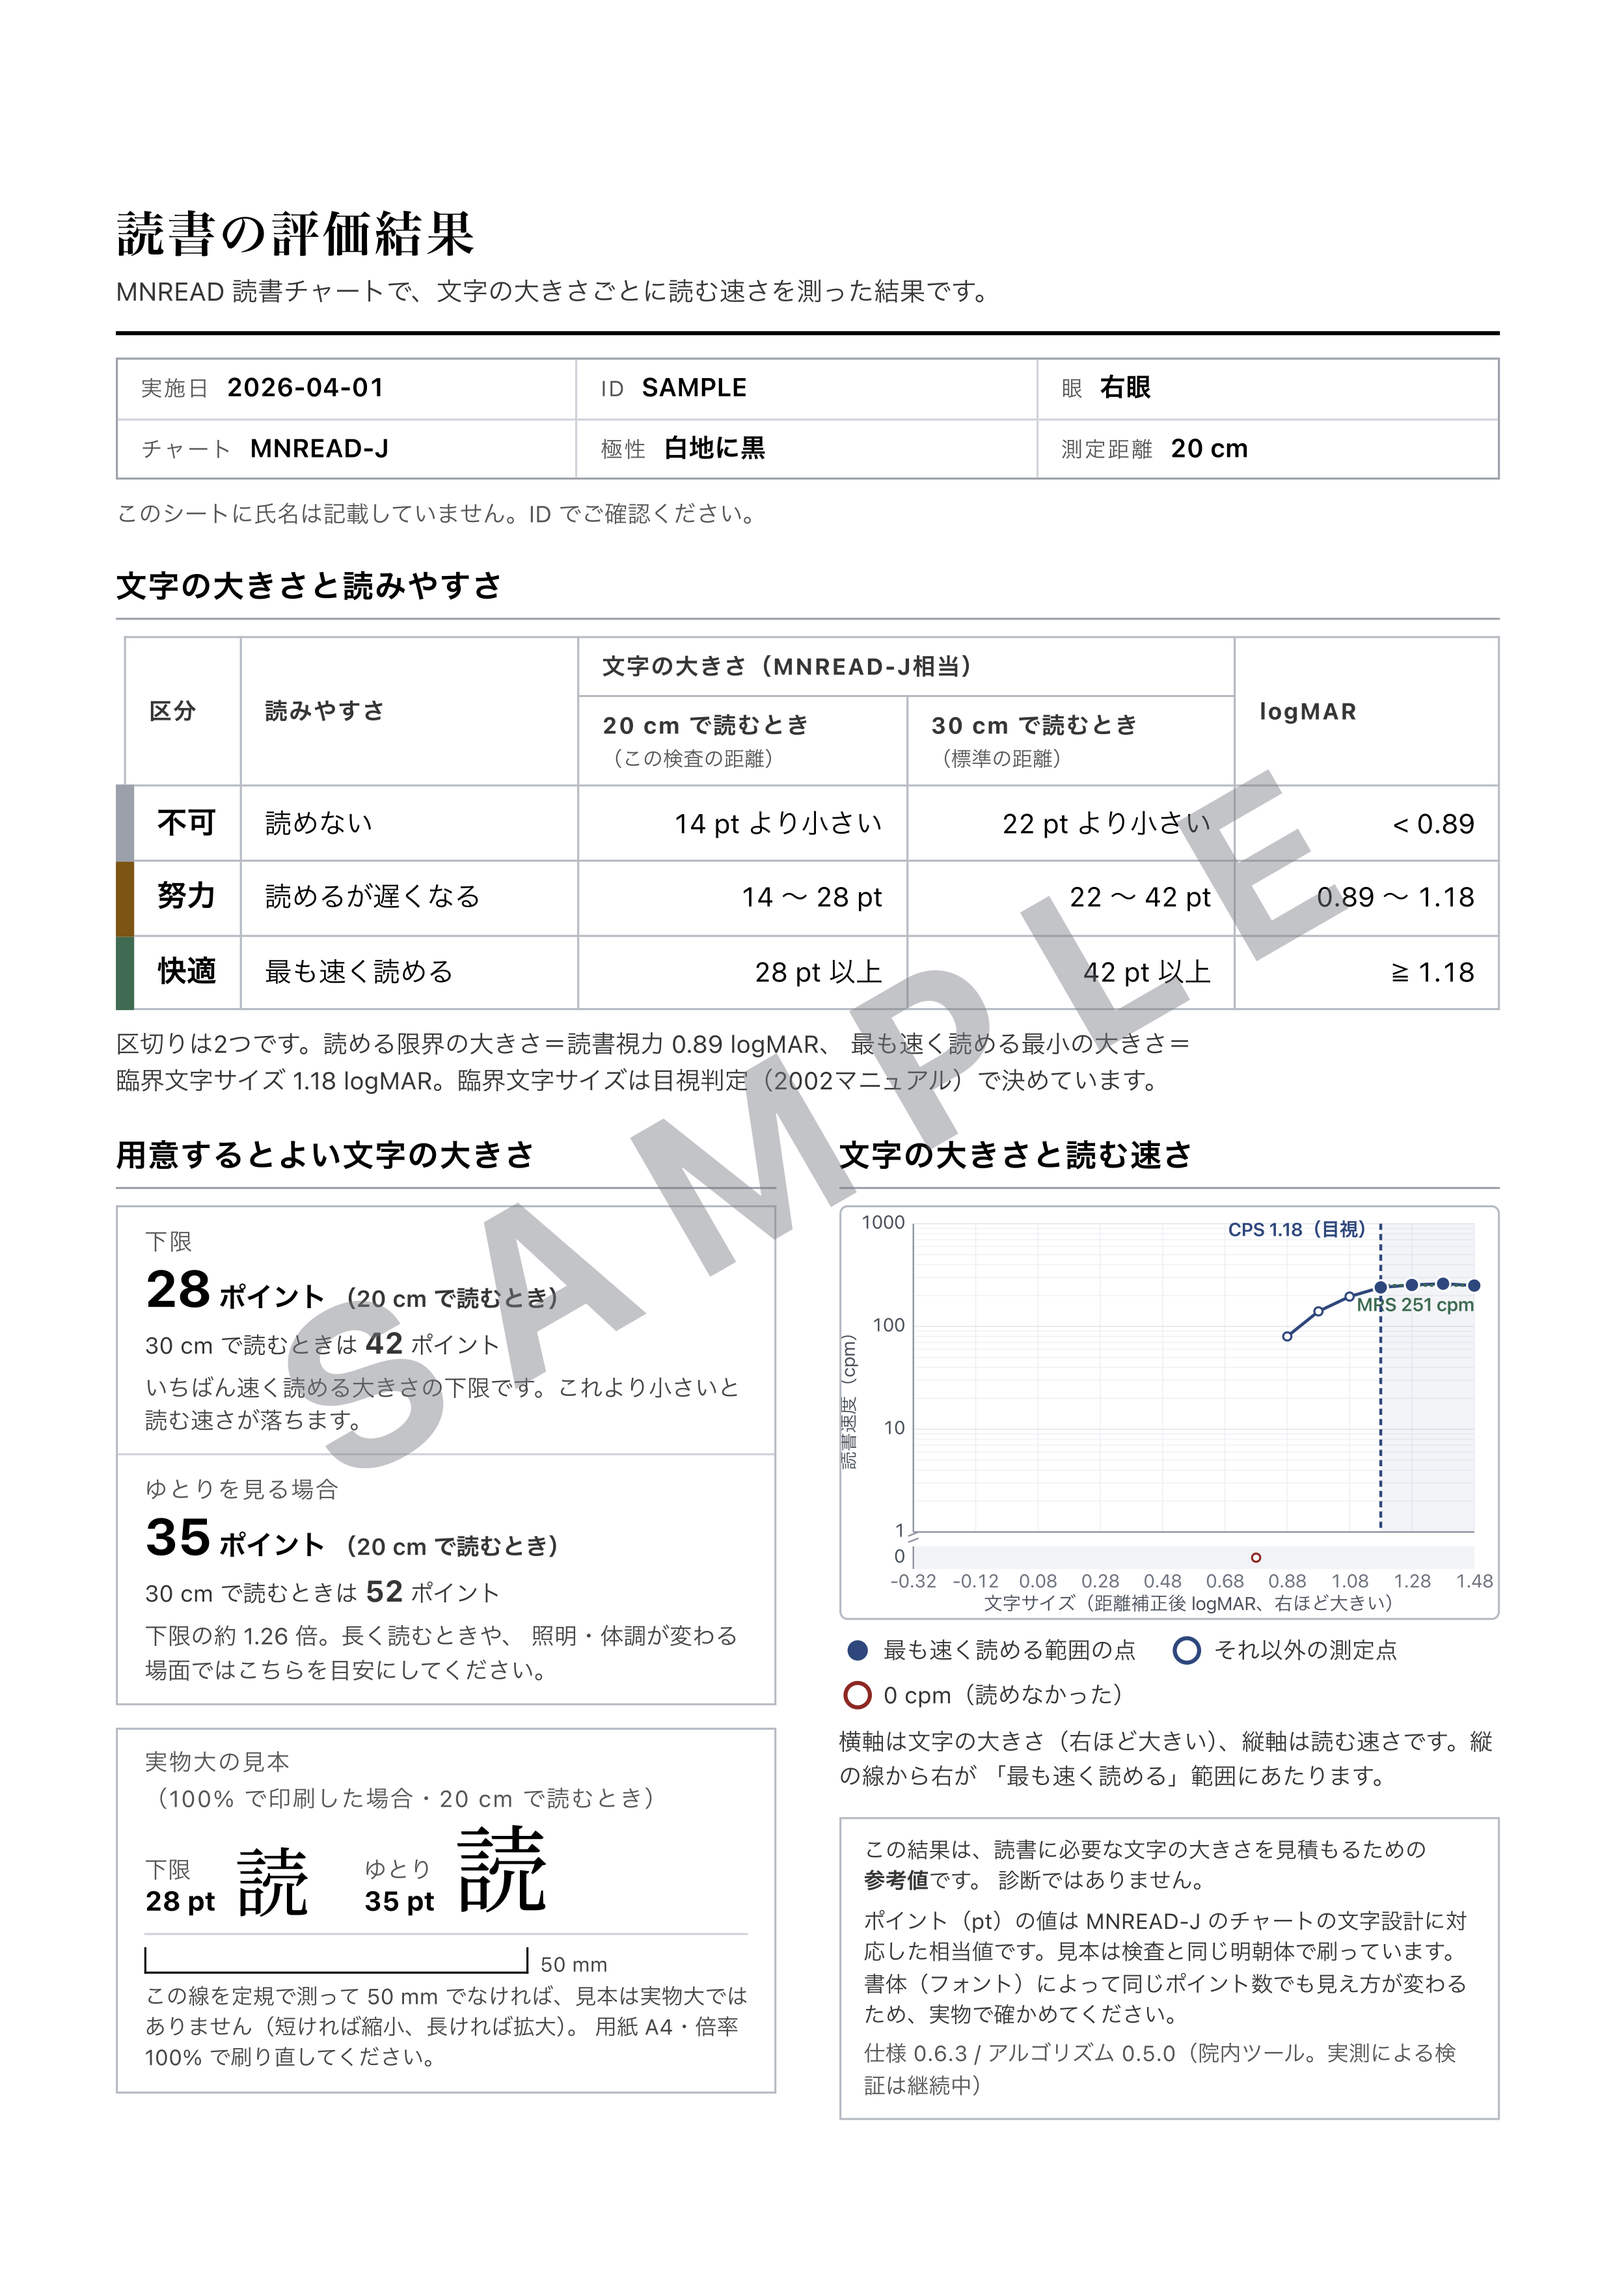
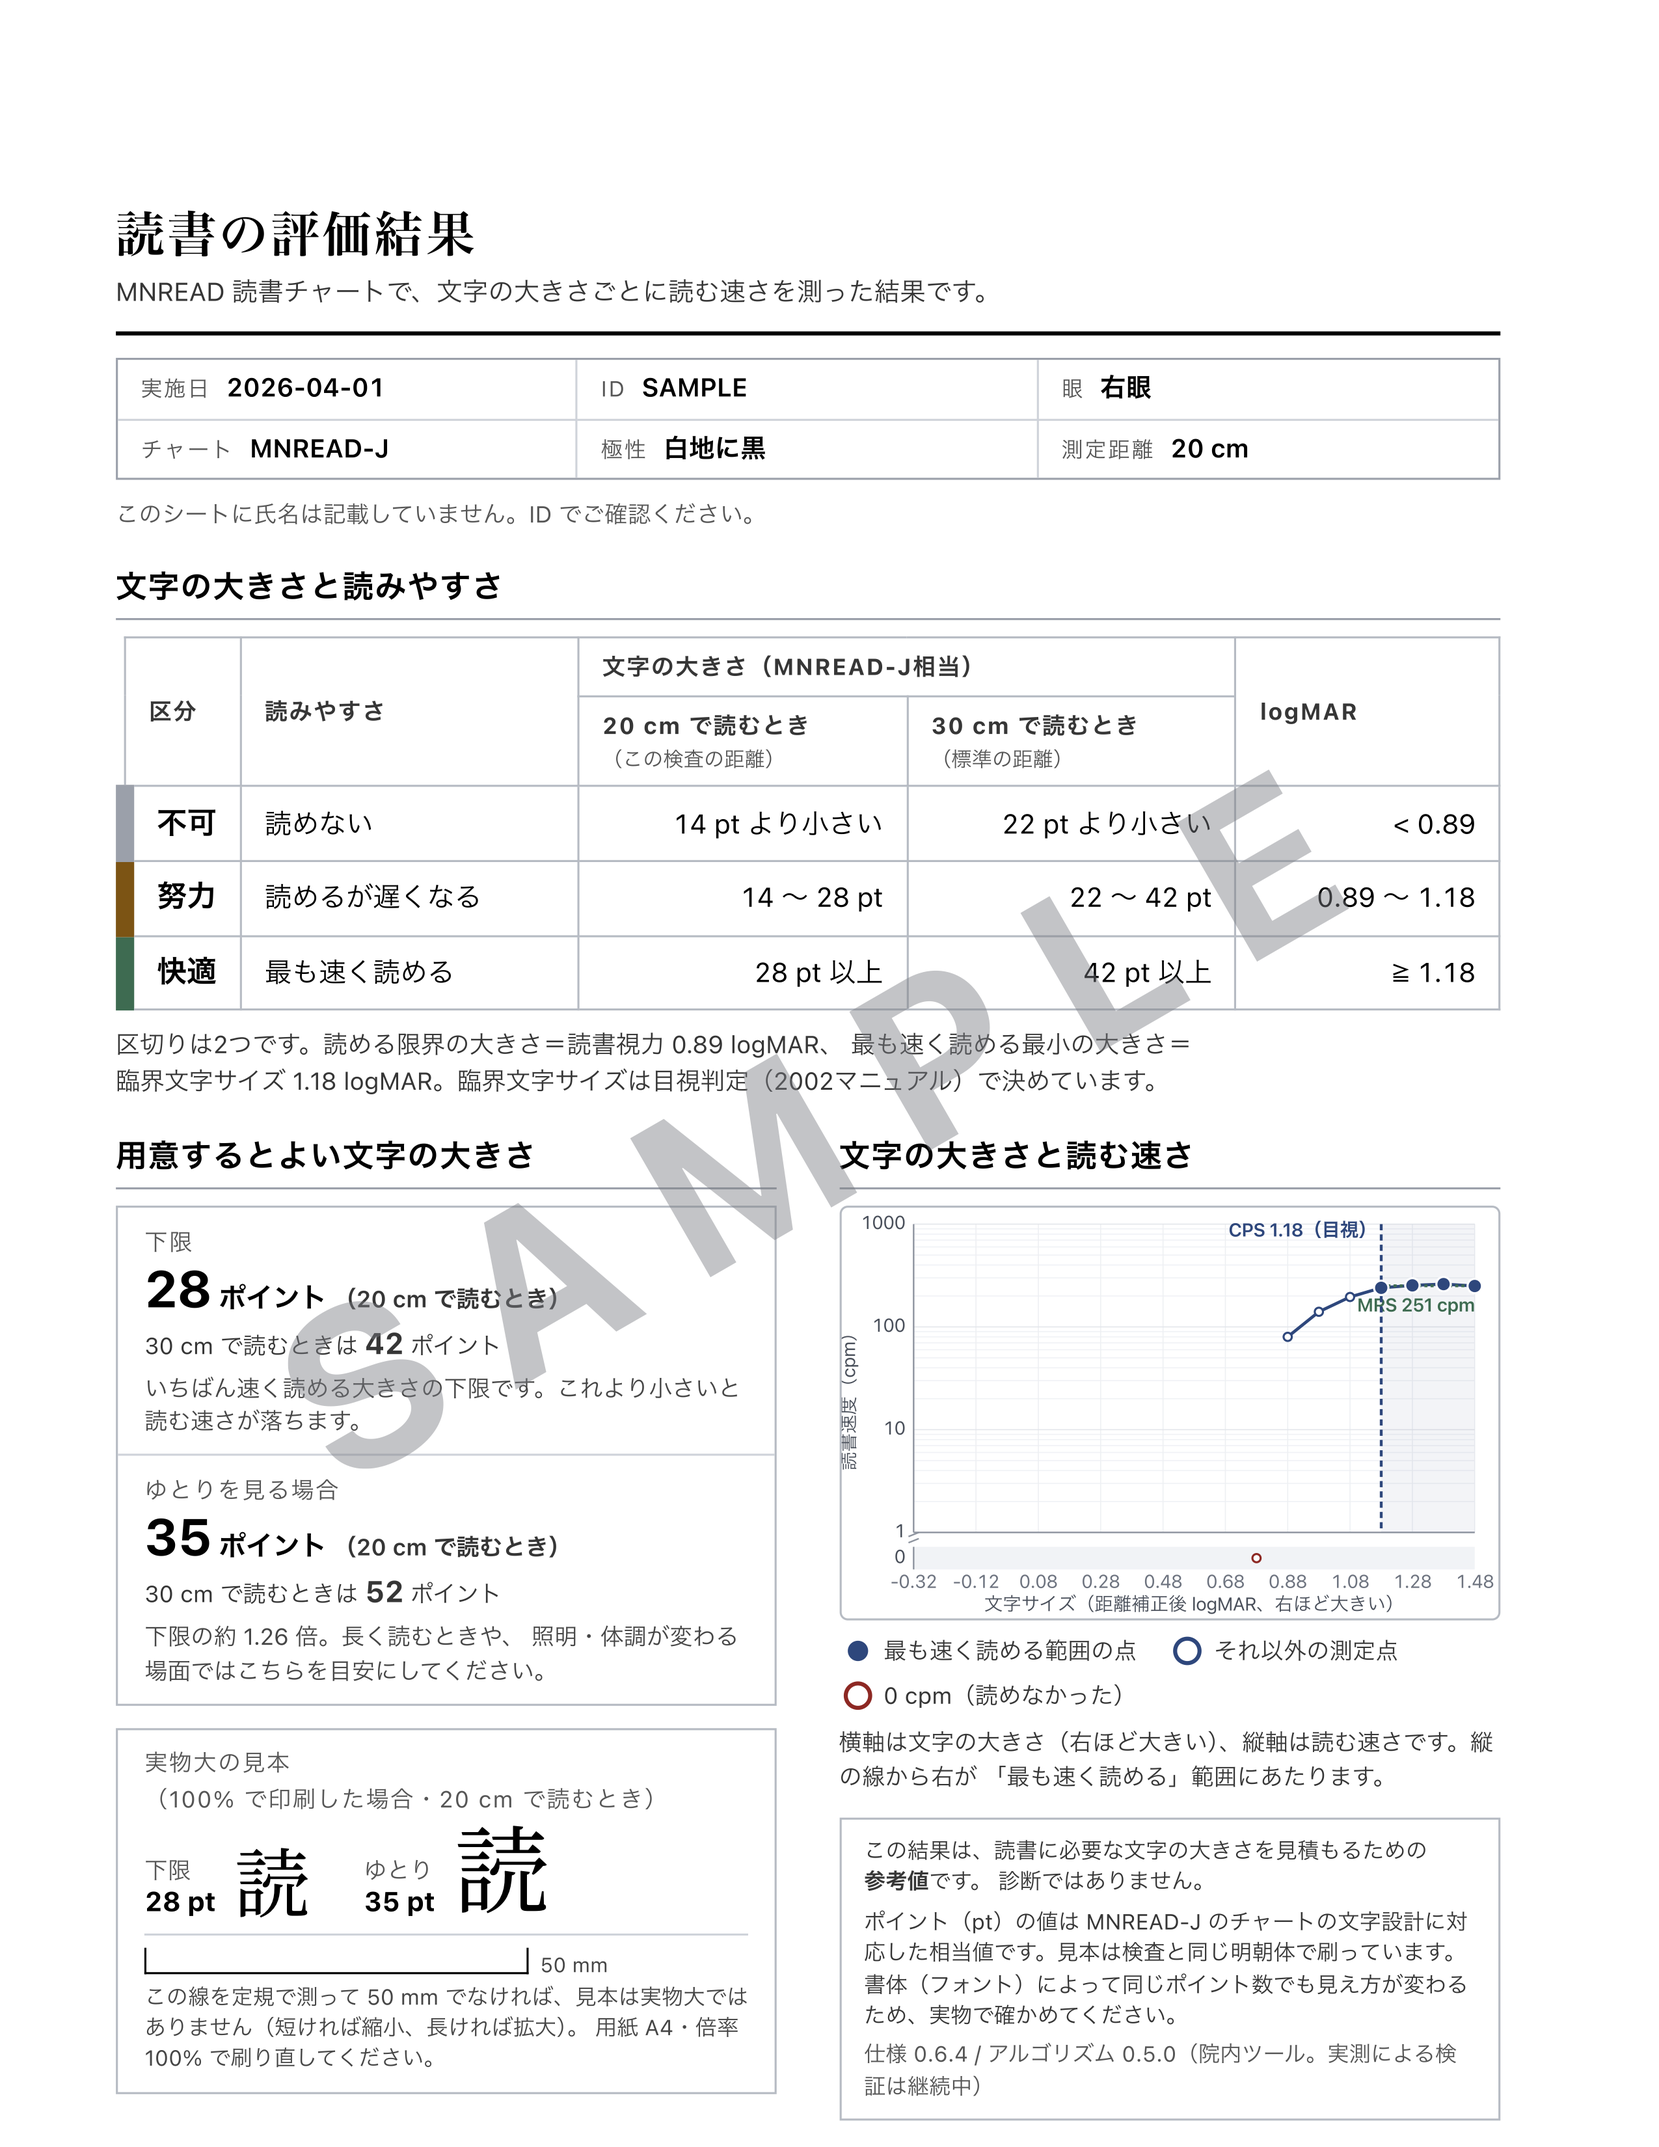
docs: 紙面の見本を仕様 0.6.4 の印刷に差し替える（#3）
MNREAD-J の ?sample を Chrome で A4・倍率 100% で印刷し、300 dpi で
取り込んだもの。紙面の内容は以前と同じで、版表記が 0.6.3 → 0.6.4 に
変わった（#3 は MNREAD-J の紙面を変えない）。

画像上で測った値: 版面 180.17 mm（設計 180 mm）、校正目盛り 50.04 mm
（設計 50 mm）。CLAUDE.md と README の実測値を合わせて更新する。

取り込み範囲は Letter（2550×3300 px）で、以前の A4（2479×3508 px）
より右に約 6 mm 広く、下に約 18 mm 短い。印字は下端から 3.6 mm 上で
終わっており、紙面は欠けていない。倍率は上の実測のとおり変わっていない。

diff --git a/CLAUDE.md b/CLAUDE.md
@@ -139,7 +139,7 @@ SPEC §8.2.2 requires the zone table, the recommended-size box *and* the speed c
 
 **The specimen's font is bundled; everything else on the sheet uses the machine's fonts** (ADR-0018). The specimen and the 50 mm bar are measuring instruments — they assert a physical size — and `pt` fixes the em, not the printed ink: the ink is the face's 字面率 times the em (Hiragino Mincho ProN W3's 読 is 0.913 em, the bundled Noto Serif JP subset 0.918). A fallback stack therefore prints a different-sized specimen on a Mac than on a Windows box, and **the calibration bar cannot see it** — the bar catches scaling, and scaling doesn't move 字面率. So `.specimen-text` names a bundled subset first (`src/assets/mnread-report-mincho.woff2`, ~2 KB, regenerated by `scripts/build-specimen-font.py`; OFL text ships in `public/`). It holds exactly the specimen characters — 読 for MNREAD-J, あ for MNREAD-Jk (SPEC §8.2.2; the table is `src/output/specimen.ts`) — and a character missing from the subset silently falls back to a machine font, so adding one means regenerating the font *and* widening `unicode-range`; `specimen-font.test.ts` checks the table against the range. The report's other text asserts nothing physical and needs no font. Never rescale the glyph to match some other face's ink — the label says "N pt", so the em is what must be N pt. If you swap the font, print it and measure: the browser numbers to reproduce are 0.9179 em (読) and 0.8290 em (あ) at `emulateMedia("print")`. The あ prints smaller than the 読 at the same label; that is correct — hiragana ink is smaller (Q&A A4.2), and the em is what the label asserts.
 
-`docs/report-sample.png` is the printed reference: an A4 scan of the sheet at 300 dpi, from the synthetic session in `apps/web/src/sample/sampleSession.ts` (`?sample` on a dev build, which also stamps the SAMPLE watermark — the data and the watermark share one switch, so neither can appear without the other, and the switch folds to `false` in the published build). It was measured, not eyeballed: text block 180.09 mm against a 180 mm design, calibration bar 49.95 mm against 50 mm. When you change the report, print it again and measure — a print that looks right can still be scaled, and the bar is what tells you.
+`docs/report-sample.png` is the printed reference: an A4 scan of the sheet at 300 dpi, from the synthetic session in `apps/web/src/sample/sampleSession.ts` (`?sample` on a dev build, which also stamps the SAMPLE watermark — the data and the watermark share one switch, so neither can appear without the other, and the switch folds to `false` in the published build). It was measured, not eyeballed: text block 180.17 mm against a 180 mm design, calibration bar 50.04 mm against 50 mm. When you change the report, print it again and measure — a print that looks right can still be scaled, and the bar is what tells you.
 
 **Nothing on the sheet may overflow the page box — Chrome answers overflow by shrinking the whole sheet.** The `SAMPLE` watermark was an `inset: 0` box carrying `transform: rotate(-30deg)`: rotating a 180×267 mm box gives a 289 mm bounding box, and Chrome scaled the printed page to 0.72 to fit it. Every physical dimension went with it — the actual-size specimen and the 50 mm calibration bar included — while `.report`'s `width: auto` refilled the page, so the sheet still looked full and only the measured bar gave it away (36.07 mm). Rotate the text, never the full-size box, and keep `overflow: hidden` on the un-rotated container. The same trap waits for any wide element: a long unbroken string, a fixed-width table, an oversized SVG.
 

diff --git a/README.md b/README.md
@@ -53,7 +53,7 @@
 図の紙面は**合成データによる見本**であり、実測記録でも原典の測定例でもない（透かしはそれを
 示すもので、開発ビルドの `?sample` が見本データと一緒に付ける。公開版には出ない）。
 1枚に収める版組と、紙の上で実物大になることは、目視ではなく実測で確かめている——
-版面 180.09 mm（設計 180 mm）、校正目盛り 49.95 mm（設計 50 mm）。左下の 50 mm 目盛りは
+版面 180.17 mm（設計 180 mm）、校正目盛り 50.04 mm（設計 50 mm）。左下の 50 mm 目盛りは
 受け取った側が縮小印刷を見抜くためのもので、実物大の文字見本を渡す前提そのものである。
 
 ---
